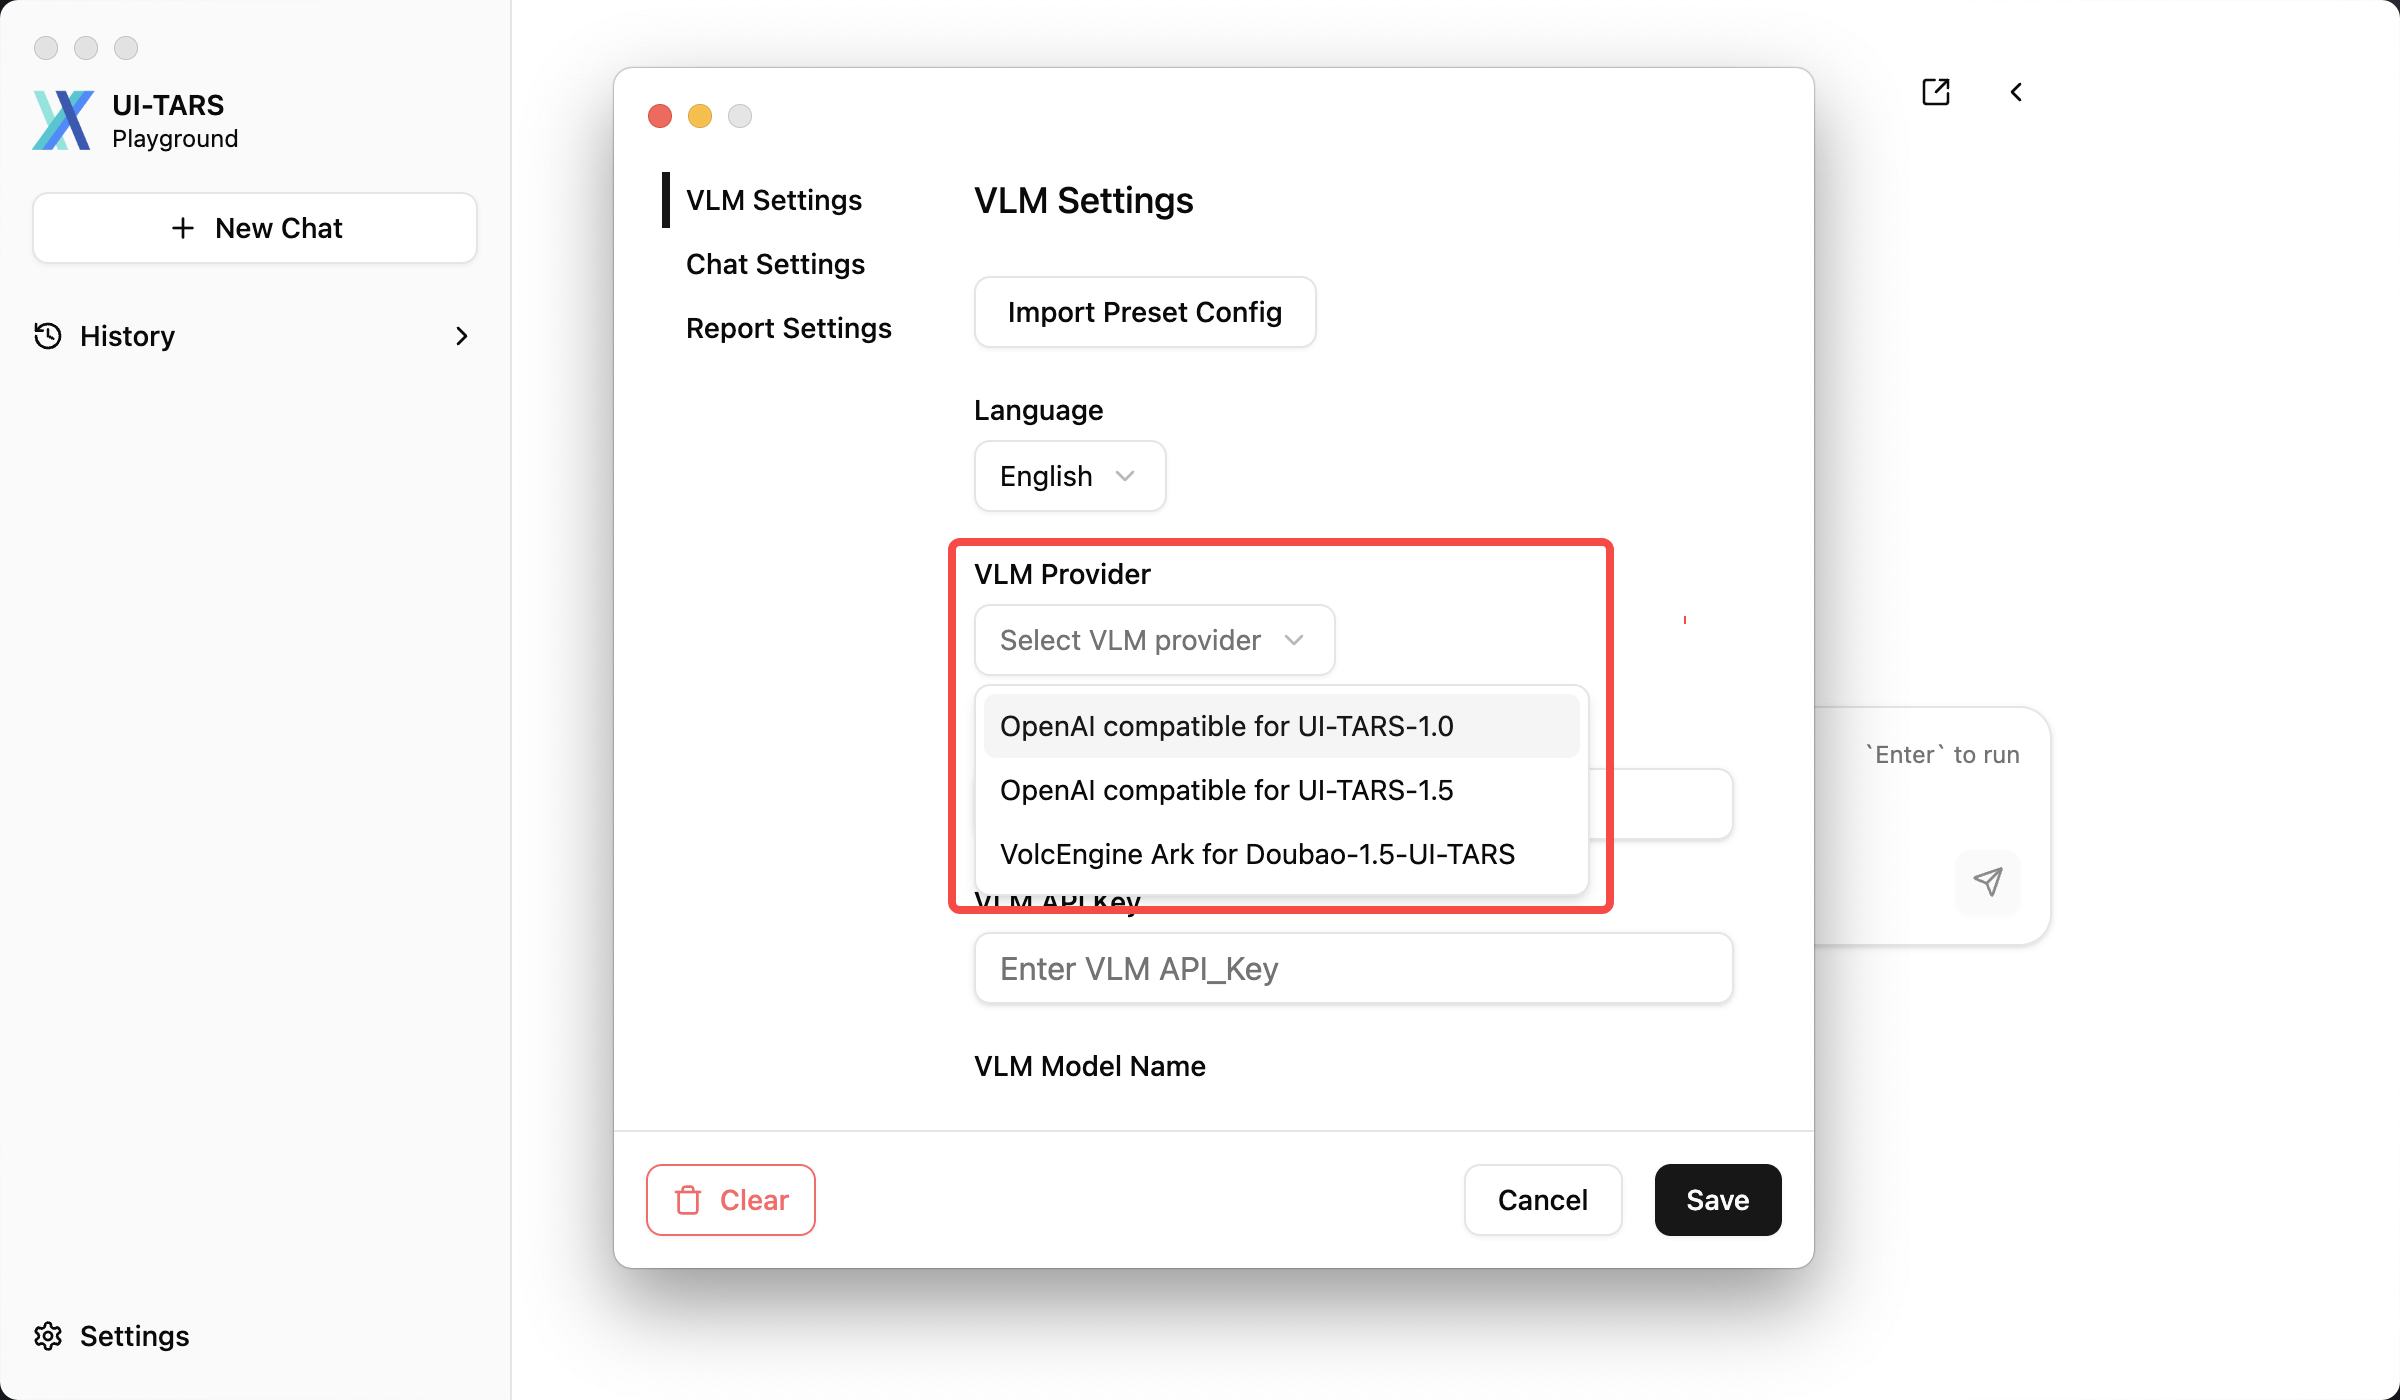
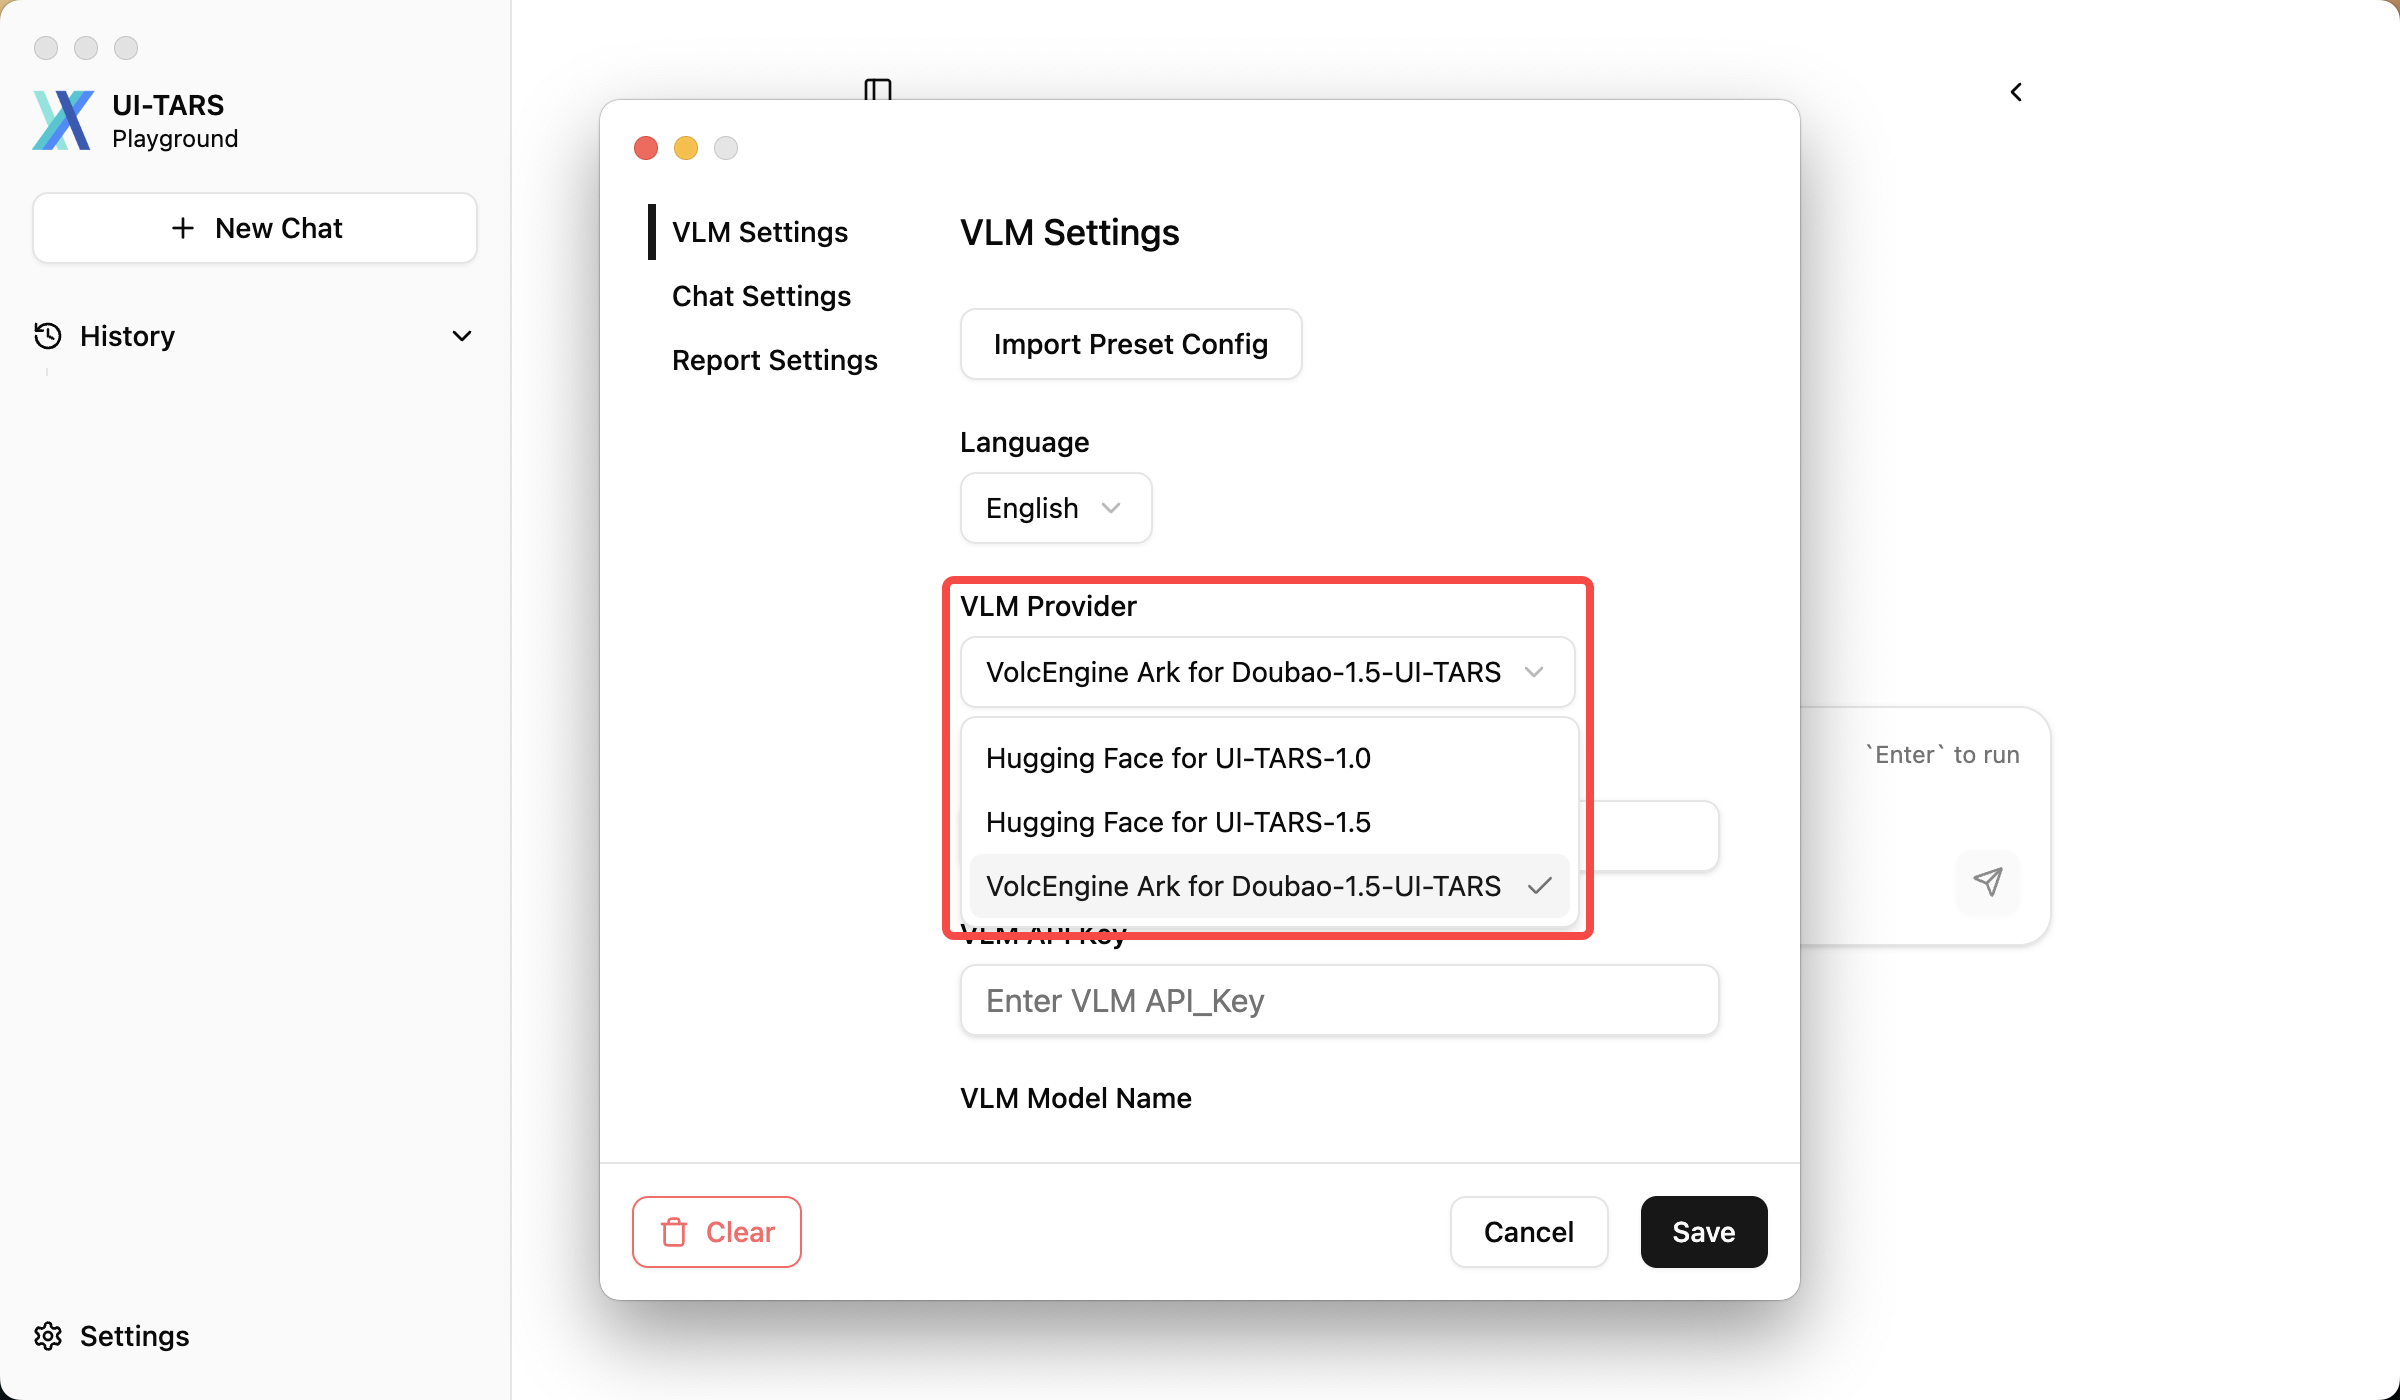
docs(ui-tars): update name for VLM (#517)

Changed region(s): [[0.25, 0.0614, 0.7812, 0.9829], [0.375, 0.215, 0.6875, 0.7986], [0.4062, 0.1229, 0.5, 0.1843]]

diff --git a/apps/ui-tars/src/main/store/types.test.ts b/apps/ui-tars/src/main/store/types.test.ts
@@ -1,0 +1,30 @@
+/*
+ * Copyright (c) 2025 Bytedance, Inc. and its affiliates.
+ * SPDX-License-Identifier: Apache-2.0
+ */
+import { describe, it, expect } from 'vitest';
+import { VLMProviderV2 } from './types';
+
+describe('VLMProviderV2', () => {
+  it('should have correct values for each provider', () => {
+    const cases = [
+      [VLMProviderV2.ui_tars_1_0, 'Hugging Face for UI-TARS-1.0'],
+      [VLMProviderV2.ui_tars_1_5, 'Hugging Face for UI-TARS-1.5'],
+      [VLMProviderV2.doubao_1_5, 'VolcEngine Ark for Doubao-1.5-UI-TARS'],
+    ];
+
+    cases.forEach(([provider, expected]) => {
+      expect(provider).toBe(expected);
+    });
+  });
+  it('should have correct value for Doubao provider', () => {
+    expect(VLMProviderV2.doubao_1_5).toBe(
+      'VolcEngine Ark for Doubao-1.5-UI-TARS',
+    );
+  });
+
+  it('should contain exactly three providers', () => {
+    const providerCount = Object.keys(VLMProviderV2).length;
+    expect(providerCount).toBe(3);
+  });
+});

diff --git a/apps/ui-tars/src/main/store/types.ts b/apps/ui-tars/src/main/store/types.ts
@@ -41,8 +41,8 @@ export enum VlmProvider {
 }
 
 export enum VLMProviderV2 {
-  ui_tars_1_0 = 'OpenAI compatible for UI-TARS-1.0',
-  ui_tars_1_5 = 'OpenAI compatible for UI-TARS-1.5',
+  ui_tars_1_0 = 'Hugging Face for UI-TARS-1.0',
+  ui_tars_1_5 = 'Hugging Face for UI-TARS-1.5',
   doubao_1_5 = 'VolcEngine Ark for Doubao-1.5-UI-TARS',
 }
 

diff --git a/docs/setting.md b/docs/setting.md
@@ -41,7 +41,7 @@ Select the backend VLM provider to ensure more accurate execution of GUI actions
 | Property    | Details                |
 | ----------- | ---------------------- |
 | **Type**    | `string`               |
-| **Options** | - `OpenAI compatible for UI-TARS-1.0`<br /> - `OpenAI compatible for UI-TARS-1.5`<br /> - `VolcEngine Ark for Doubao-1.5-UI-TARS` |
+| **Options** | - `Hugging Face for UI-TARS-1.0`<br /> - `Hugging Face for UI-TARS-1.5`<br /> - `VolcEngine Ark for Doubao-1.5-UI-TARS` |
 | **Required** | `true`         |
 
 > [!NOTE]
@@ -100,7 +100,7 @@ In the HuggingFace example in [UI-TARS/README_deploy.md](https://github.com/byte
 
 ```yaml
 Language: en
-VLM Provider: OpenAI compatible for UI-TARS-1.5
+VLM Provider: Hugging Face for UI-TARS-1.5
 VLM Base URL: https:xxx
 VLM API KEY: hf_xxx
 VLM Model Name: tgi

diff --git a/docs/quick-start.md b/docs/quick-start.md
@@ -63,14 +63,14 @@ You can download the [latest release](https://github.com/bytedance/UI-TARS-deskt
 
 ```yaml
 Language: en
-VLM Provider: OpenAI compatible for UI-TARS-1.5
+VLM Provider: Hugging Face for UI-TARS-1.5
 VLM Base URL: https:xxx
 VLM API KEY: hf_xxx
 VLM Model Name: xxx
 ```
 
 > [!NOTE]
-> For VLM Provider, make sure to select "**OpenAI compatible for UI-TARS-1.5**" to ensure proper VLM Action parsing.
+> For VLM Provider, make sure to select "**Hugging Face for UI-TARS-1.5**" to ensure proper VLM Action parsing.
 
   <img src="../apps/ui-tars/images/quick_start/huggingface_setting.png" width="500px" />
 

diff --git a/docs/preset.md b/docs/preset.md
@@ -65,7 +65,7 @@ graph TD
 ```yaml
 name: UI TARS Desktop Example Preset
 language: en
-vlmProvider: OpenAI compatible for UI-TARS-1.5
+vlmProvider: Hugging Face for UI-TARS-1.5
 vlmBaseUrl: https://your-endpoint.huggingface.cloud/v1
 vlmApiKey: your_api_key
 vlmModelName: your_model_name
